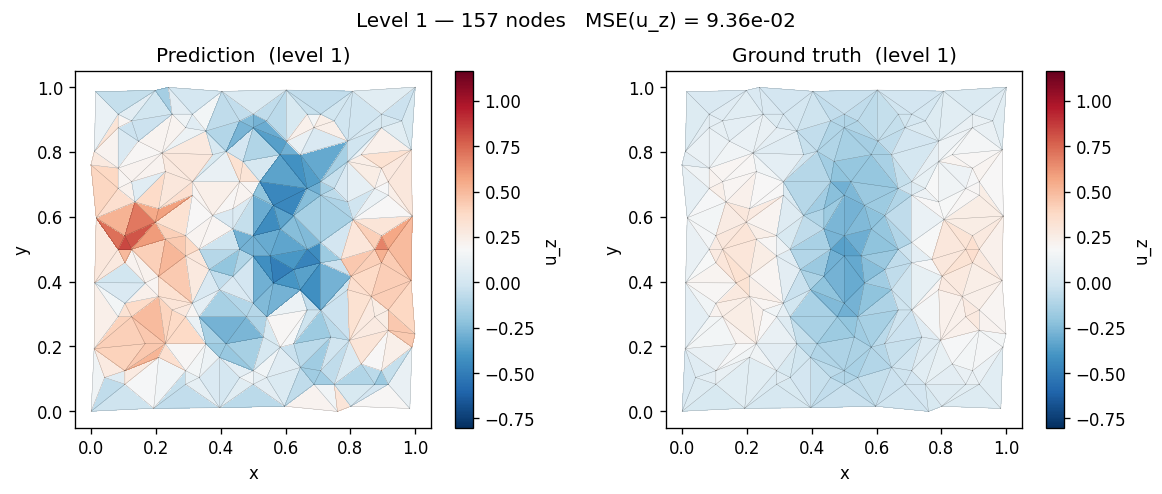
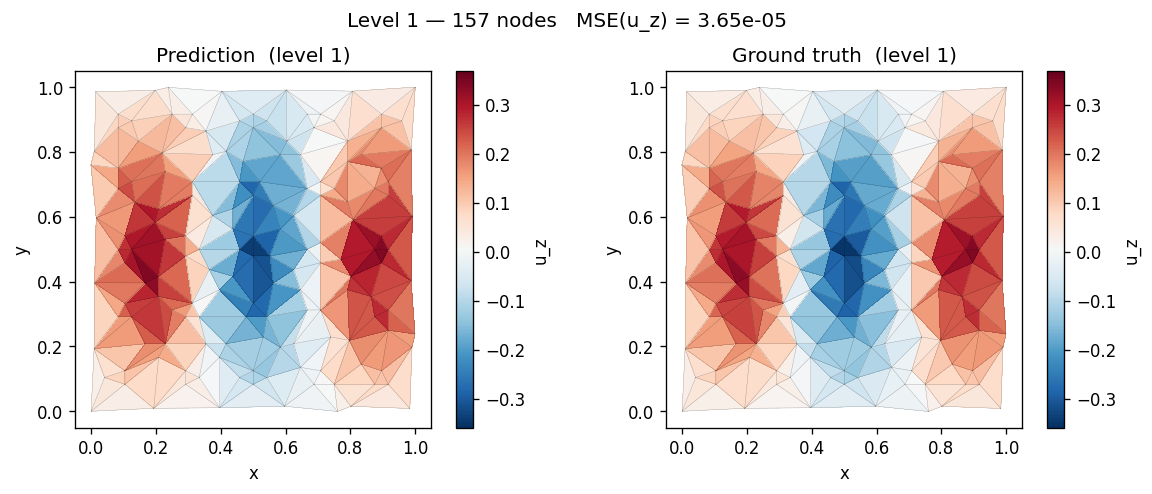
update training results for example

diff --git a/examples/plate_bending.py b/examples/plate_bending.py
@@ -48,7 +48,7 @@ REDUCED_ORDER = 8
 CHEB_ORDER    = 3
 FILTER_SIZES  = [8, 16, 32]
 MLP_HIDDEN    = [64, 64, 64]
-N_EPOCHS      = 100
+N_EPOCHS      = 300
 BATCH_SIZE    = 64
 LR            = 1e-3
 
@@ -354,24 +354,6 @@ def main():
             x_gt=x_gt,
             sample_idx=sample_idx,
             out_path=os.path.join(SAVE_DIR, f"prediction_level_{level}.png"),
-        )
-
-    # Visualizer: one window per hierarchy level, animating the first test
-    # simulation (N_TIMESTEPS frames, t=0 → t=1).
-    from visualizer import Visualizer
-    vis = Visualizer(background_color='white', shader='normalColor')
-    for i, (v, f) in enumerate(hierarchy["meshes_list"]):
-        x_pred = surrogate.predict(mu_test, level=i)
-        x_gt   = surrogate._downsample_to_level(x_test, level=i)
-        vis.animate(
-            [
-                v + x_pred,
-                v + x_gt
-            ],
-            faces=[f]*2,
-            color=["blue", "red"],
-            shift=True,
-            point_size=4,
         )
 
 
